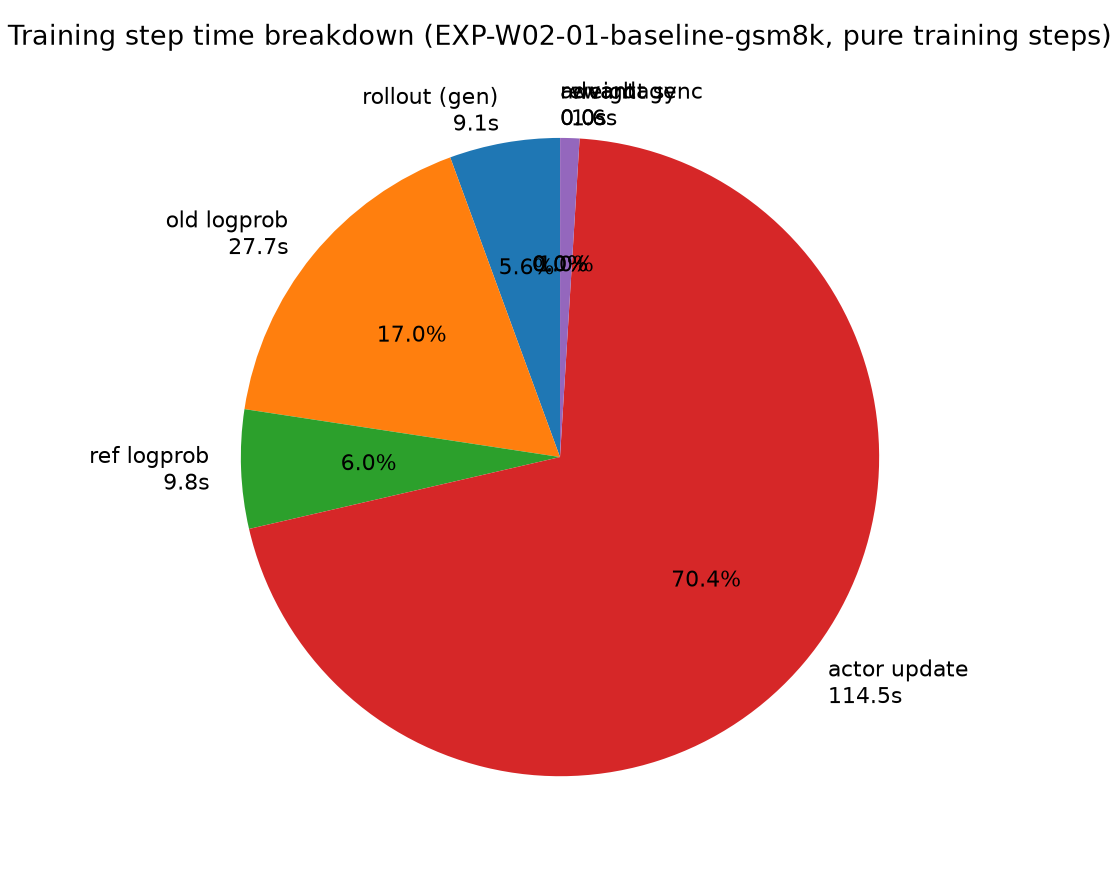
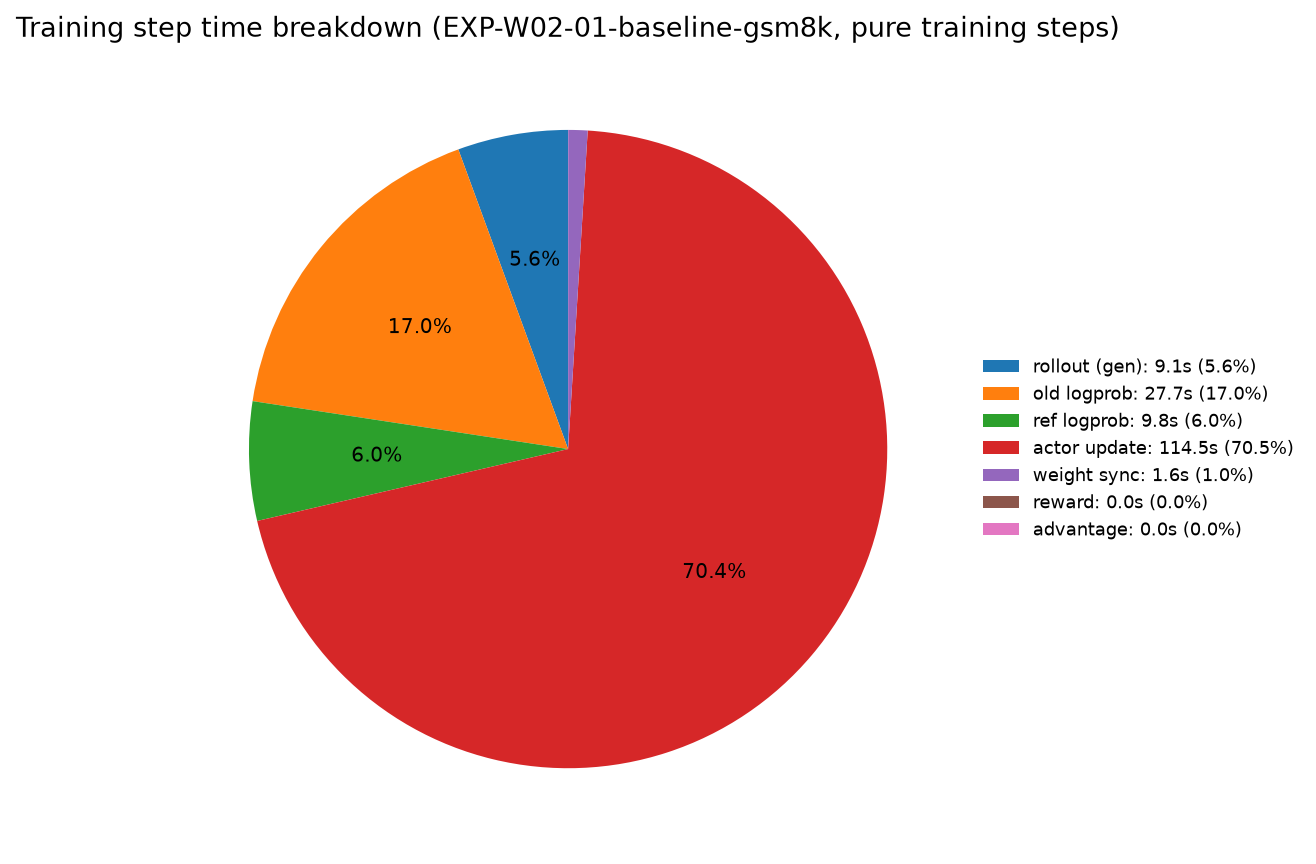
W2: finalize profiling report, figures and troubleshooting notes

Changed region(s): [[0.0625, 0.0938, 1.0, 0.9062], [0.0, 0.0, 1.0, 0.0625], [0.5312, 0.6562, 0.5625, 0.6875]]

diff --git a/docs/troubleshooting.md b/docs/troubleshooting.md
@@ -59,7 +59,7 @@
 
 ---
 
-## 3. 冒烟实验实测（待回填）
+## 3. 冒烟实验实测
 
 ### 3.1 Ray 启动失败：AF_UNIX socket 路径超过 107 字节
 - **现象**：`ray.init()` 抛 `OSError: validate_socket_filename failed: AF_UNIX path length cannot exceed 107 bytes: /home/angus/workspace/SelfEvolve_RLVR/logs/ray/ray/session_.../sockets/plasma_store`。
@@ -257,3 +257,13 @@ final val: val-core/openai/gsm8k/reward/mean@1 = 0.77938 @ step 116
 - **结论**：所有上报分数用 **merged** 模型；merge 正确性由权重级检查保证。详见
   `reports/week02_summary.md` 的"merge 一致性"。
 - **教训**：生成级一致性对 kernel 差异极其敏感，不要用它判断权重 merge 是否成功。
+
+### 4.8 W2 profiling 的两个失败点（保留记录，不静默跳过）
+
+- **`EXP-W02-02` util=0.25**：vLLM 初始化失败（KV cache 不足）。16GB 下
+  `gpu_memory_utilization=0.25` 不足以同时放 1.5B 权重（~3.1GB）+ 1536 总长的 KV。
+  0.30 是可用下限，0.35 只比 0.30 快约 2%。
+- **`EXP-W02-04` micro=4**：`torch.OutOfMemoryError: CUDA out of memory. Tried to allocate 2.39 GiB.
+  GPU 0 has a total capacity of 15.57 GiB of which 839.88 MiB is free.`
+  1024 response × 4 条序列的激活放不下。micro=2 是 16GB 上的实际上限（峰值 11.91 GiB）。
+- 两个失败点都写进了 `reports/profiling_baseline_4080.md` §5，作为参数边界的一部分。

diff --git a/reports/profiling_baseline_4080.md b/reports/profiling_baseline_4080.md
@@ -58,7 +58,7 @@
 | `timing_s/ref` | 9.78 | 6.0% |
 | `timing_s/gen` | 9.09 | 5.6% |
 | `timing_s/update_weights` | 1.58 | 1.0% |
-| `timing_s/reward` | ~1 | ~0.6% |
+| `timing_s/reward` | ~0（首步 1–2 s） | ~0% |
 | **单步合计**（纯训练步） | **162.39** | 100% |
 
 - 吞吐 `perf/throughput` ≈ **600 tok/s**（prompt+response 总 token / step 时间）。
@@ -149,8 +149,8 @@ W2 baseline 选 n=5 是为了对齐官方，不是为了速度。
   剩余差距来自 SDPA + padding（无 flash-attn）与 FSDP 单卡开销，对应 P3/P2。
 - old_log_prob 与 ref 是两次独立的 320 条前向；baseline 分别约 0.28 / 0.10 ms/token，
   也远高于官方（0.008–0.01 ms）。micro=2 后 old_log_prob 降到 ~0.15 ms/token。
-- `reward` 1–2 s 是 320 条规则判分的 Python 开销，占比小；`update_weights` 1.6 s 是 merge 全量权重
-  的固定成本，占比 1%，不是优化重点。
+- `reward` 在稳态下接近 0（规则判分在 rollout worker 内完成，主进程只记 warmup 首步的 1–2 s）；
+  `update_weights` 1.6 s 是 merge 全量权重的固定成本，占比 1%，不是优化重点。
 
 ## 7. 最值得优化的 3 个点
 
